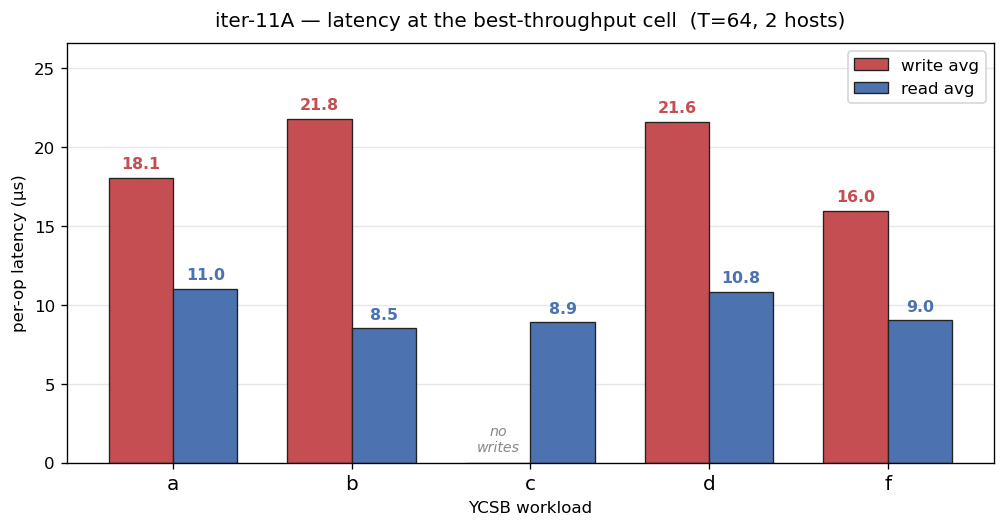
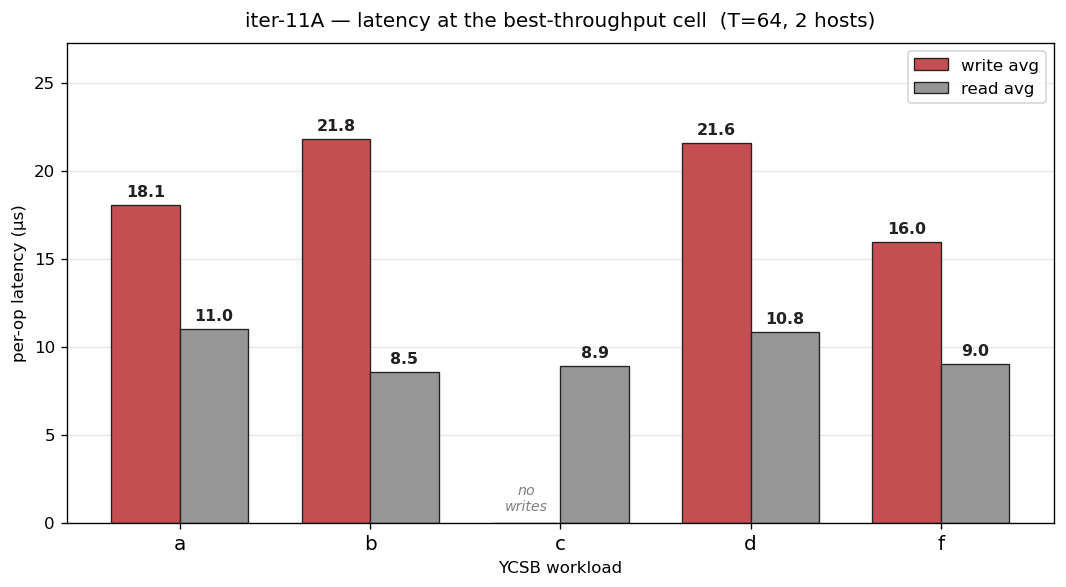
[iter11A-P6][plots] Best-per-workload bars conformed to docs/tools/plot_style.py Style B
Previous version used SEABORN_DEEP per-workload colours (red/green/
blue/purple/yellow) for the throughput chart and hard-coded
red+blue for the latency chart. Project plotting standard
(docs/tools/plot_style.py) — STYLE B — calls for greyscale +
single accent red, with workload axis used as categorical labels
rather than colour-coded.

A_best_thpt_per_workload.png — single-class data → uniform mid-grey
   (STYLE_B[1] = #969696) bars. Project edges (STYLE_B_EDGE +
   STYLE_B_EDGE_LW) and bar_with_headroom() polish applied.
   Target line uses STYLE_B_TARGET grey-dashed.

A_best_lat_per_workload.png — 2-class ordered (read < write in
   focality, since A's write path dominates cost):
     write avg = STYLE_B[2] accent red #c44e52 (focal)
     read avg  = STYLE_B[1] mid grey  #969696 (less focal)
   bar_with_headroom() helper applied. Annotation colour uses
   STYLE_B_EDGE for both bars so the values are readable on
   either palette.

Both charts now match the iter-5 canonical reference
(docs/iter5_kv_n_compare/iter5_bestn_thpt_bars.png) for visual
weight and palette discipline.

Changed region(s): [[0.0, 0.0, 1.0, 1.0], [0.8012, 0.3643, 0.8936, 0.425]]

diff --git a/scripts/plot_iter11A_best_per_workload.py b/scripts/plot_iter11A_best_per_workload.py
@@ -77,37 +77,47 @@ def best_per_workload(rows):
 
 
 def plot_thpt(best, out_path):
-    """Vertical bar chart: x=workload, y=throughput (Mops/s)."""
-    fig, ax = plt.subplots(figsize=(8.5, 4.5))
+    """Vertical bar chart: x=workload, y=throughput (Mops/s).
+
+    Project Style B: single-class data → uniform mid-grey bars
+    (STYLE_B[1]) with project edge colour. Target line in
+    STYLE_B_TARGET grey-dashed. Values annotated above each bar.
+    """
+    fig, ax = plt.subplots(figsize=(9, 5))
     wls = WORKLOADS  # fixed order a,b,c,d,f
     values = [best[wl]["agg_mops"] for wl in wls]
-    colours = [COLORS[wl] for wl in wls]
-    labels = [wl.replace("workload", "") for wl in wls]  # a / b / c / d / f
+    labels = [wl.replace("workload", "") for wl in wls]
 
     x_pos = list(range(len(wls)))
-    bars = ax.bar(x_pos, values, color=colours,
-                  edgecolor=STYLE_B_EDGE, linewidth=STYLE_B_EDGE_LW)
+    ax.bar(x_pos, values, color=STYLE_B[1])  # uniform mid-grey
+
     ax.set_xticks(x_pos)
     ax.set_xticklabels(labels, fontsize=12)
     ax.set_xlabel("YCSB workload")
     ax.set_ylabel("aggregate throughput (Mops/s)")
-    ax.set_title("iter-11A — best throughput per YCSB workload  (T=64, 2 hosts)",
-                 pad=10)
+    ax.set_title(
+        "iter-11A — best throughput per YCSB workload  (T=64, 2 hosts)")
 
-    # 20 Mops/s target reference line
+    # Project standard polish: edges + headroom + y-grid
+    bar_with_headroom(ax, headroom=1.25)
+
+    # 20 Mops/s target reference line (after headroom so it doesn't
+    # over-shrink the y limit when below the bars).
     ax.axhline(y=TARGET_MOPS, color=STYLE_B_TARGET, linestyle="--",
                linewidth=1.4, label=f"target {TARGET_MOPS:.0f} Mops/s")
+    # Re-apply headroom in case target line sits above bars.
+    cur_ymax = ax.get_ylim()[1]
+    needed_ymax = max(values + [TARGET_MOPS]) * 1.25
+    if needed_ymax > cur_ymax:
+        ax.set_ylim(0, needed_ymax)
 
     # Bar-top value annotations
-    ymax = max(values + [TARGET_MOPS]) * 1.18
-    ax.set_ylim(0, ymax)
+    ymax = ax.get_ylim()[1]
     for x, v in zip(x_pos, values):
-        ax.text(x, v + ymax * 0.015, f"{v:.2f}",
+        ax.text(x, v + ymax * 0.012, f"{v:.2f}",
                 va="bottom", ha="center", fontsize=11, fontweight="bold",
-                color="#222222")
+                color=STYLE_B_EDGE)
 
-    ax.grid(axis="y", alpha=0.3)
-    ax.set_axisbelow(True)
     ax.legend(loc="upper right", fontsize=10)
     fig.tight_layout()
     fig.savefig(out_path, dpi=120)
@@ -116,8 +126,13 @@ def plot_thpt(best, out_path):
 
 
 def plot_lat(best, out_path):
-    """Vertical grouped bar chart: x=workload, y=latency (write_avg + read_avg µs)."""
-    fig, ax = plt.subplots(figsize=(8.5, 4.5))
+    """Vertical grouped bar chart: x=workload, y=latency.
+
+    Project Style B: 2-class ordered (read < write in focality) →
+    STYLE_B[1] mid-grey for read (less focal), STYLE_B[2] accent
+    red for write (focal — Protocol A write path dominates cost).
+    """
+    fig, ax = plt.subplots(figsize=(9, 5))
     wls = WORKLOADS
     labels = [wl.replace("workload", "") for wl in wls]
     bar_w = 0.36
@@ -125,48 +140,43 @@ def plot_lat(best, out_path):
     w_vals = [best[wl]["w_avg_us"] for wl in wls]
     r_vals = [best[wl]["r_avg_us"] for wl in wls]
 
-    WRITE_C = "#c44e52"  # red — write
-    READ_C  = "#4c72b0"  # blue — read
+    # Project Style B 2-class: focal accent + neutral grey
+    WRITE_C = STYLE_B[2]   # #c44e52 accent red (focal)
+    READ_C  = STYLE_B[1]   # #969696 mid grey  (less focal)
 
     x_centre = list(range(len(wls)))
     x_write  = [x - bar_w / 2.0 for x in x_centre]
     x_read   = [x + bar_w / 2.0 for x in x_centre]
 
-    bars_w = ax.bar(x_write, w_vals, width=bar_w, color=WRITE_C,
-                    edgecolor=STYLE_B_EDGE, linewidth=STYLE_B_EDGE_LW,
-                    label="write avg")
-    bars_r = ax.bar(x_read,  r_vals, width=bar_w, color=READ_C,
-                    edgecolor=STYLE_B_EDGE, linewidth=STYLE_B_EDGE_LW,
-                    label="read avg")
+    ax.bar(x_write, w_vals, width=bar_w, color=WRITE_C, label="write avg")
+    ax.bar(x_read,  r_vals, width=bar_w, color=READ_C,  label="read avg")
 
     ax.set_xticks(x_centre)
     ax.set_xticklabels(labels, fontsize=12)
     ax.set_xlabel("YCSB workload")
     ax.set_ylabel("per-op latency (µs)")
-    ax.set_title("iter-11A — latency at the best-throughput cell  "
-                 "(T=64, 2 hosts)", pad=10)
+    ax.set_title(
+        "iter-11A — latency at the best-throughput cell  (T=64, 2 hosts)")
 
-    ymax = max(w_vals + r_vals) * 1.22
-    ax.set_ylim(0, ymax)
+    # Project standard polish
+    bar_with_headroom(ax, headroom=1.25)
+    ymax = ax.get_ylim()[1]
 
     # Bar-top annotations
     for x, v in zip(x_write, w_vals):
         if v > 0:
-            ax.text(x, v + ymax * 0.015, f"{v:.1f}",
+            ax.text(x, v + ymax * 0.012, f"{v:.1f}",
                     va="bottom", ha="center", fontsize=9.5,
-                    fontweight="bold", color=WRITE_C)
+                    fontweight="bold", color=STYLE_B_EDGE)
         else:
-            # workload-c: no writes — short inline annotation above the column
             ax.text(x, ymax * 0.02, "no\nwrites",
                     va="bottom", ha="center", fontsize=8.5,
-                    fontstyle="italic", color="#888888")
+                    fontstyle="italic", color=STYLE_B_TARGET)
     for x, v in zip(x_read, r_vals):
-        ax.text(x, v + ymax * 0.015, f"{v:.1f}",
+        ax.text(x, v + ymax * 0.012, f"{v:.1f}",
                 va="bottom", ha="center", fontsize=9.5,
-                fontweight="bold", color=READ_C)
+                fontweight="bold", color=STYLE_B_EDGE)
 
-    ax.grid(axis="y", alpha=0.3)
-    ax.set_axisbelow(True)
     ax.legend(loc="upper right", fontsize=10)
     fig.tight_layout()
     fig.savefig(out_path, dpi=120)
